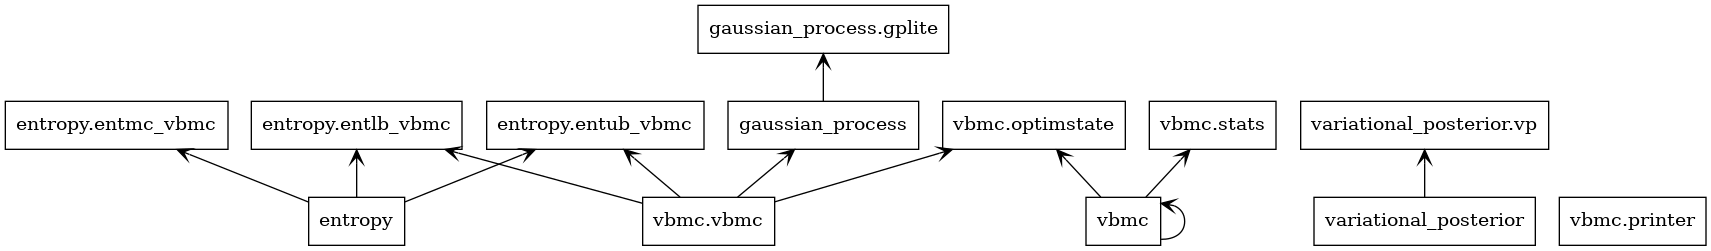
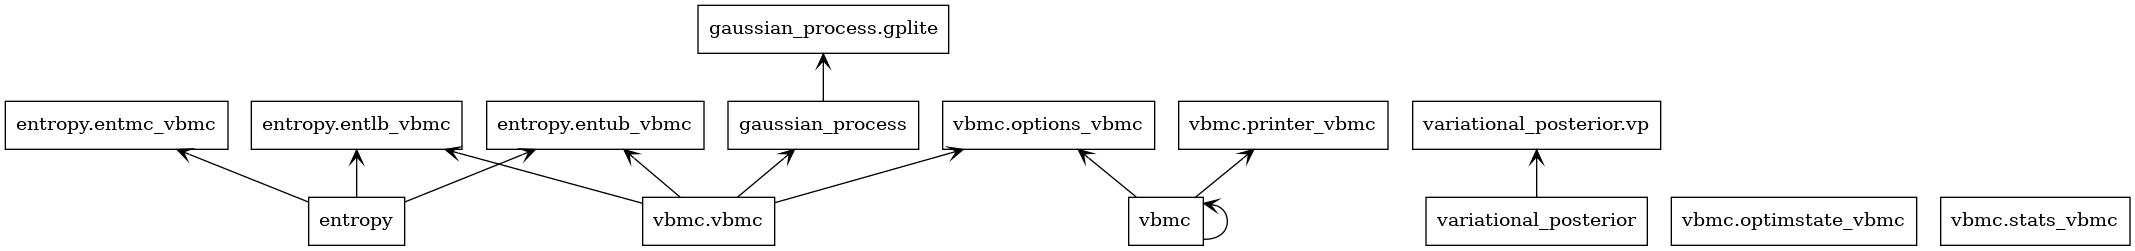
fix: diagrams and naming conventions

diff --git a/initialCodePort/vbmc/__init__.py b/initialCodePort/vbmc/__init__.py
@@ -1,5 +1,6 @@
 # __init__.py
 from .optimstate import OptimState
 from .options_vbmc import Options_VBMC
+from .printer_vbmc import Printer_VBMC
 from .stats import Stats
 from .vbmc import VBMC

diff --git a/initialCodePort/vbmc/printer_vbmc.py b/initialCodePort/vbmc/printer_vbmc.py
@@ -1,4 +1,4 @@
-class Printer(object):
+class Printer_VBMC(object):
     """
     Prints the status messages of the VBMC algorithm
     """
